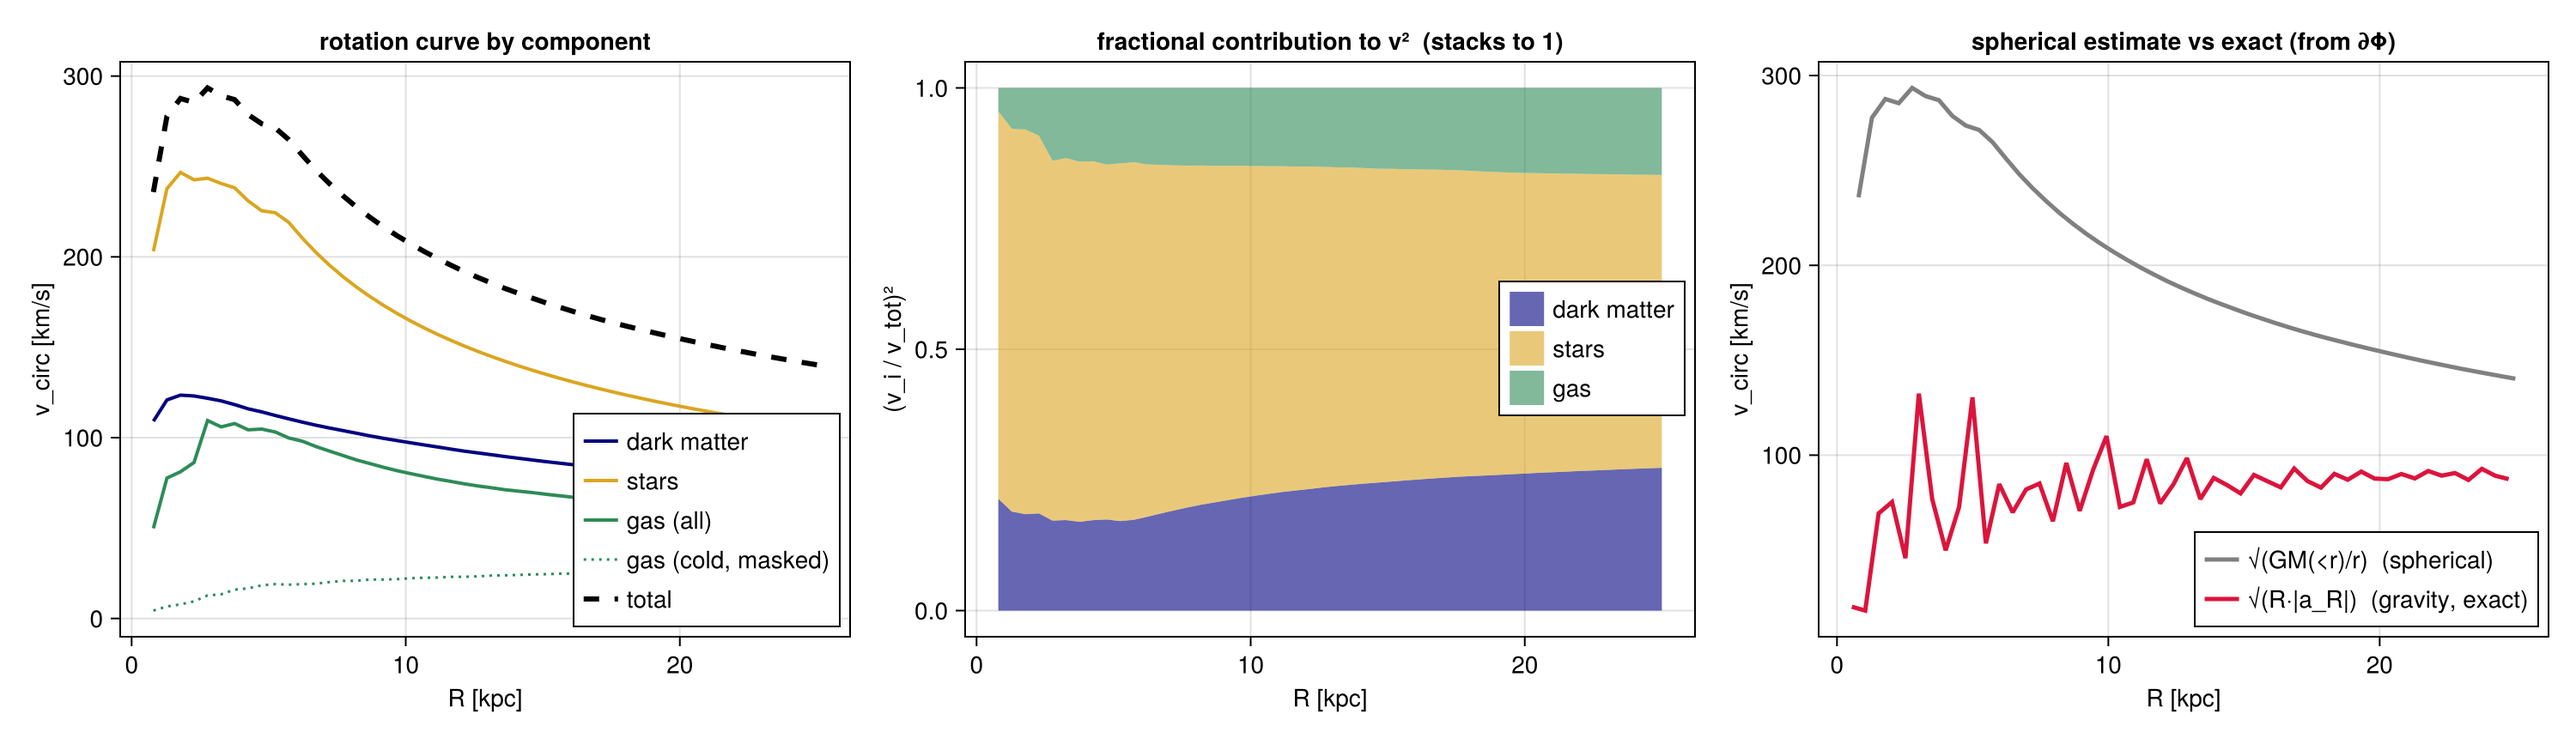
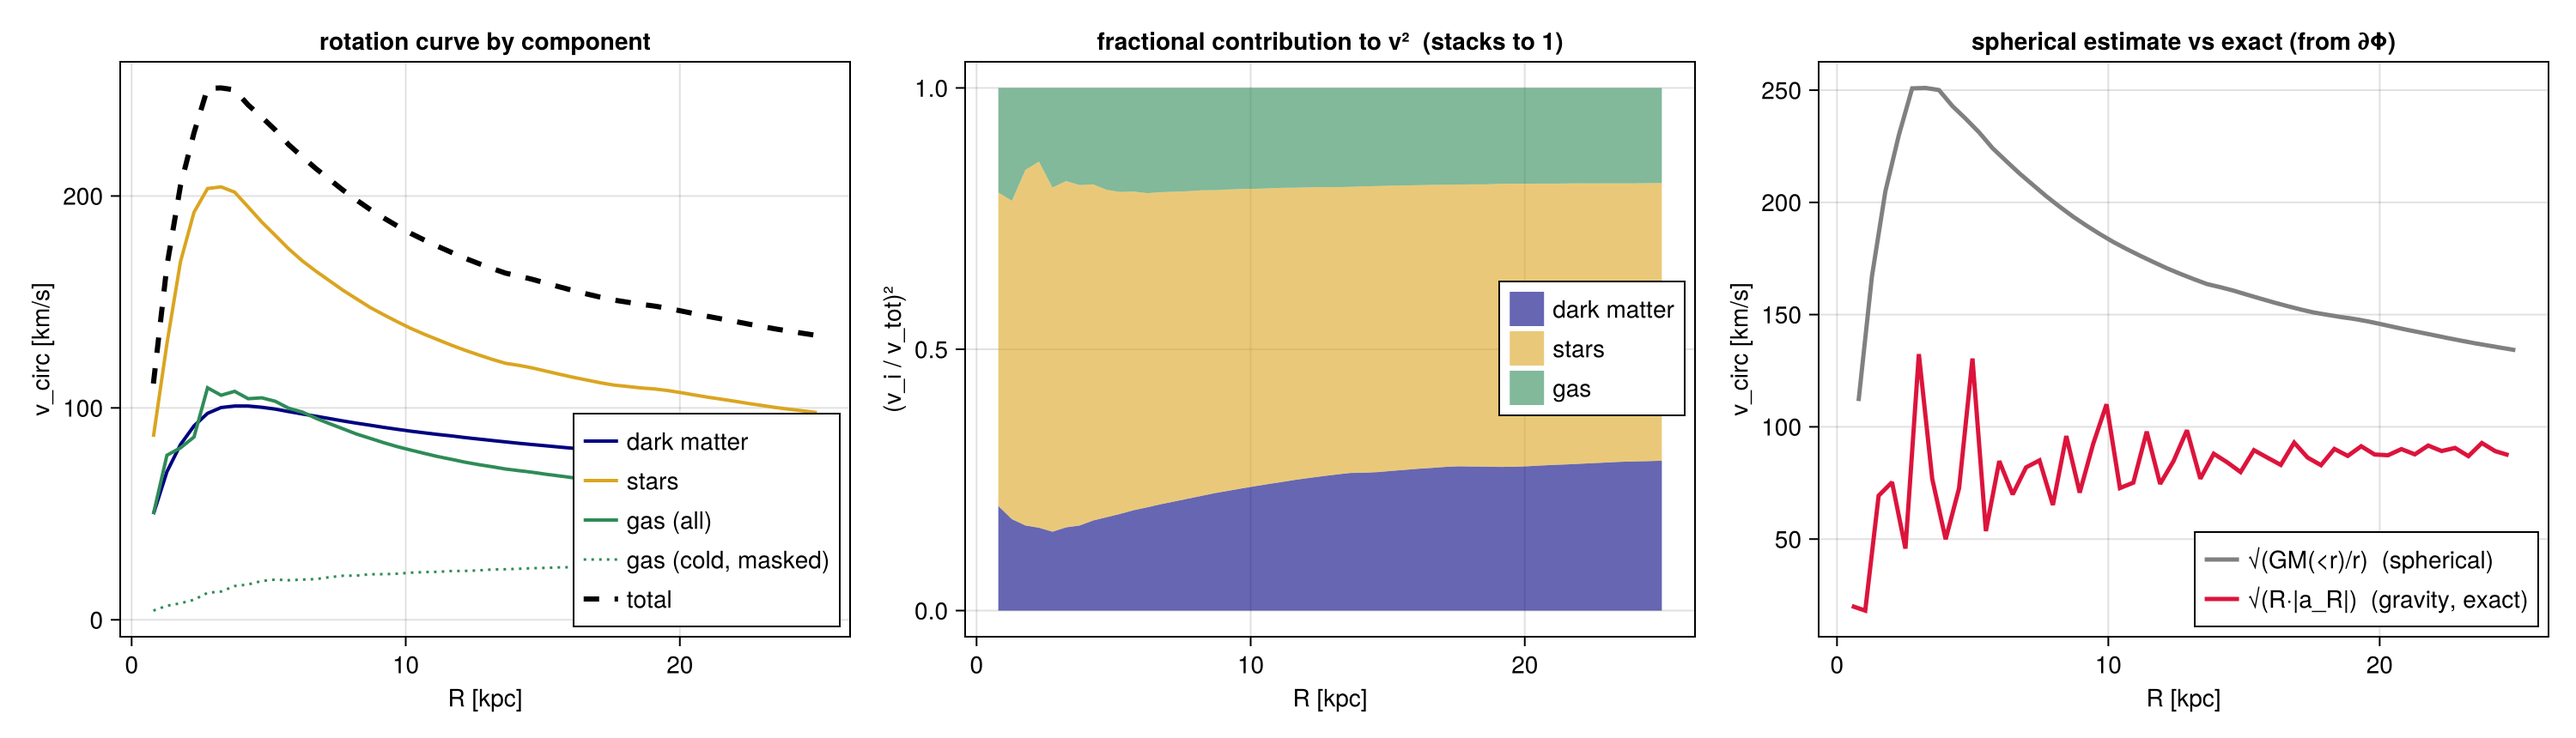
docs(profiles): one simulation throughout, and calmer bins
The page loaded gas, gravity and clumps from spiral_clumps but particles
from spiral_ugrid, and section 5 then added them in quadrature into one
rotation curve and compared that against the gravity field of the first
run. The two are not the same system: spiral_ugrid is the initial
condition at t = 0, spiral_clumps is at 148 Myr. The total mixed gas
from one run with stars and dark matter from another.

spiral_clumps carries 453200 particles of its own, 413589 stars and
39611 dark matter, so the companion run was never needed. Everything now
comes from one snapshot, and the setup says why that matters.

With consistent data the spherical estimate can finally be compared with
the field: it runs high, 182 against 110 km/s at R = 10 kpc, because the
binning radius is cylindrical and sweeps the whole vertical column. The
text said it undershoots; it overshoots here, and now says so.

Section 1 uses 1 kpc bins from 1 kpc instead of 50 bins from zero, and
filters log bins on the mass they carry rather than the cells they hold.

diff --git a/docs/src/15_multi_Profiles_Phase.md b/docs/src/15_multi_Profiles_Phase.md
@@ -21,8 +21,11 @@ essentials with a plot each; the remaining features share the same API and are s
 
 ## Setup, load the galaxy once
 
-Load hydro, gravity and clumps from one snapshot, plus a companion run that carries **particles**
-(dark matter + stars). Define a reusable physical **center**; profiles take a `center` in any length unit.
+Load hydro, gravity and **particles** from **one** snapshot. That matters more than it looks: every
+number on this page is then about the same matter at the same time, so a mass decomposition can be
+compared against the gravity field of the same run. Mixing two runs would put gas from one and
+stars from another into the same total. Define a reusable physical **center**; profiles take a
+`center` in any length unit.
 
 ```julia
 # Example-data root. Point this at your own simulation folder, or set the
@@ -35,7 +38,7 @@ BASE = MERA_EXAMPLES   # <-- change me
 info  = getinfo(100, joinpath(BASE,"RAMSES/spiral_clumps"), verbose=false)
 gas   = gethydro(info,  verbose=false, show_progress=false)
 grav  = getgravity(info, lmax=gas.lmax, verbose=false, show_progress=false)
-parts = getparticles(getinfo(1, joinpath(BASE,"RAMSES/spiral_ugrid"), verbose=false), verbose=false, show_progress=false)
+parts = getparticles(info, verbose=false, show_progress=false)   # SAME snapshot as the gas
 ctr = [:bc]                         # box centre; e.g. [24.,24.,24.] with range_unit=:kpc also works
 println("gas cells = ", length(gas.data), "   particles = ", length(parts.data))
 ```
@@ -49,7 +52,7 @@ println("gas cells = ", length(gas.data), "   particles = ", length(parts.data))
 | ||_|| |   |___|   |  | |   _   |
 |_|   |_|_______|___|  |_|__| |__|
 Mera v1.8.0 | Julia 1.12.7 | 4 threads
-gas cells = 590311   particles = 45470
+gas cells = 590311   particles = 453200
 ```
 
 ## 1. The simplest profile, binning a quantity
@@ -63,21 +66,26 @@ under `scale=:log`), or by fully custom `edges=`, `binsize`/`edges` override `nb
 (centres), `edges`, `count`, `sum` (Σweight), `sumw2`.
 
 ```julia
-pl  = profile(gas, :r_cylinder; weight=:mass, nbins=50, xrange=(0,24), center=ctr, range_unit=:kpc, xunit=:kpc)
-plg = profile(gas, :r_cylinder; weight=:mass, nbins=50, scale=:log, xrange=(0.3,24), center=ctr, range_unit=:kpc, xunit=:kpc)
+# Binning is a choice, and a bad one invents structure. 50 bins from R = 0 leaves the inner
+# ones nearly empty; on a log axis those become spikes several decades deep. Wider bins
+# starting at 1 kpc show the same galaxy without the noise.
+pl  = profile(gas, :r_cylinder; weight=:mass, binsize=1.0, xrange=(1.0,24), center=ctr, range_unit=:kpc, xunit=:kpc)
+plg = profile(gas, :r_cylinder; weight=:mass, nbins=18, scale=:log, xrange=(1.0,24), center=ctr, range_unit=:kpc, xunit=:kpc)
 pe  = profile(gas, :r_cylinder; weight=:mass, edges=[0.,2.,4.,8.,16.,24.], center=ctr, range_unit=:kpc, xunit=:kpc)
 pbs = profile(gas, :r_cylinder; weight=:mass, binsize=(500,:pc), xrange=(0,24), center=ctr, range_unit=:kpc, xunit=:kpc)
 println("binsize=(500,:pc) → bin width [kpc] = ", round(diff(pbs.edges)[1], digits=3), "  (", length(pbs.edges)-1, " bins)")
 M(p) = p.sum .* gas.scale.Msol      # code mass -> Msol
+
 fig = Figure(size=(1080,420))
-ax1 = Axis(fig[1,1], xlabel="R [kpc]", ylabel="mass / bin [M⊙]", title="linear bins")
+ax1 = Axis(fig[1,1], xlabel="R [kpc]", ylabel="mass / bin [M⊙]", title="linear bins  (1 kpc wide, from 1 kpc)")
 scatterlines!(ax1, pl.x, M(pl), color=:seagreen)
-ax2 = Axis(fig[1,2], xscale=log10, yscale=log10, xlabel="R [kpc]", ylabel="mass / bin [M⊙]", title="log bins + custom edges  (bins with ≥ 10 cells)")
-o = (M(plg) .> 0) .& (plg.count .>= 10)   # a bin holding a few cells is noise, not signal
-lines!(ax2, plg.x[o], M(plg)[o], color=:dodgerblue, linewidth=2, label="50 log bins")
+ax2 = Axis(fig[1,2], xscale=log10, yscale=log10, xlabel="R [kpc]", ylabel="mass / bin [M⊙]",
+           title="log bins + custom edges  (above 0.1 % of the peak)")
+o = M(plg) .> 1e-3 * maximum(M(plg))   # a bin can hold cells and almost no mass: filter on mass
+lines!(ax2, plg.x[o], M(plg)[o], color=:dodgerblue, linewidth=2, label="18 log bins")
 stairs!(ax2, pe.x, max.(M(pe),1), color=:crimson, step=:center, linewidth=2, label="custom edges")
 axislegend(ax2, position=:rb, framevisible=false)
-axislegend(ax2, position=:rt); fig
+fig
 ```
 
 ```
@@ -186,8 +194,13 @@ stars, dark matter, and they add **in quadrature**, `v_tot² = Σ v_i²`. The sq
 is the dynamical mass decomposition (≠ the *kinematic* ⟨v_ϕ⟩ of §7).
 
 **How `v_circ` is estimated:** the enclosed mass `M(<r)` is an *exact* direct sum of the binned masses;
-`v_circ = √(G·M(<r)/r)` is then the **spherical** (shell-theorem) idealization, it assumes spherical
-symmetry, so for a flattened disk it under-shoots at large R. The third panel overplots it against the
+`v_circ = √(G·M(<r)/r)` is then the **spherical** (shell-theorem) idealization. It assumes the
+enclosed mass is spherically arranged, and here the binning radius is *cylindrical*, so M(<R)
+sweeps the whole vertical column and takes in halo material that a sphere of the same radius would
+not. On this galaxy the estimate therefore runs **high**: 182 km/s against 110 km/s from the field
+at R = 10 kpc, a factor 1.7. Treat the decomposition as "who dominates where", which it answers
+well, rather than as a measurement of the rotation speed, which the third panel gets from the
+solved potential. The third panel overplots it against the
 **exact** curve from the solved gravity field, `v = √(R·|a_R|)` with `a_R = getvar(grav, :ar_cylinder)`
 (the true radial acceleration of all matter), the dynamically rigorous rotation curve.
 
